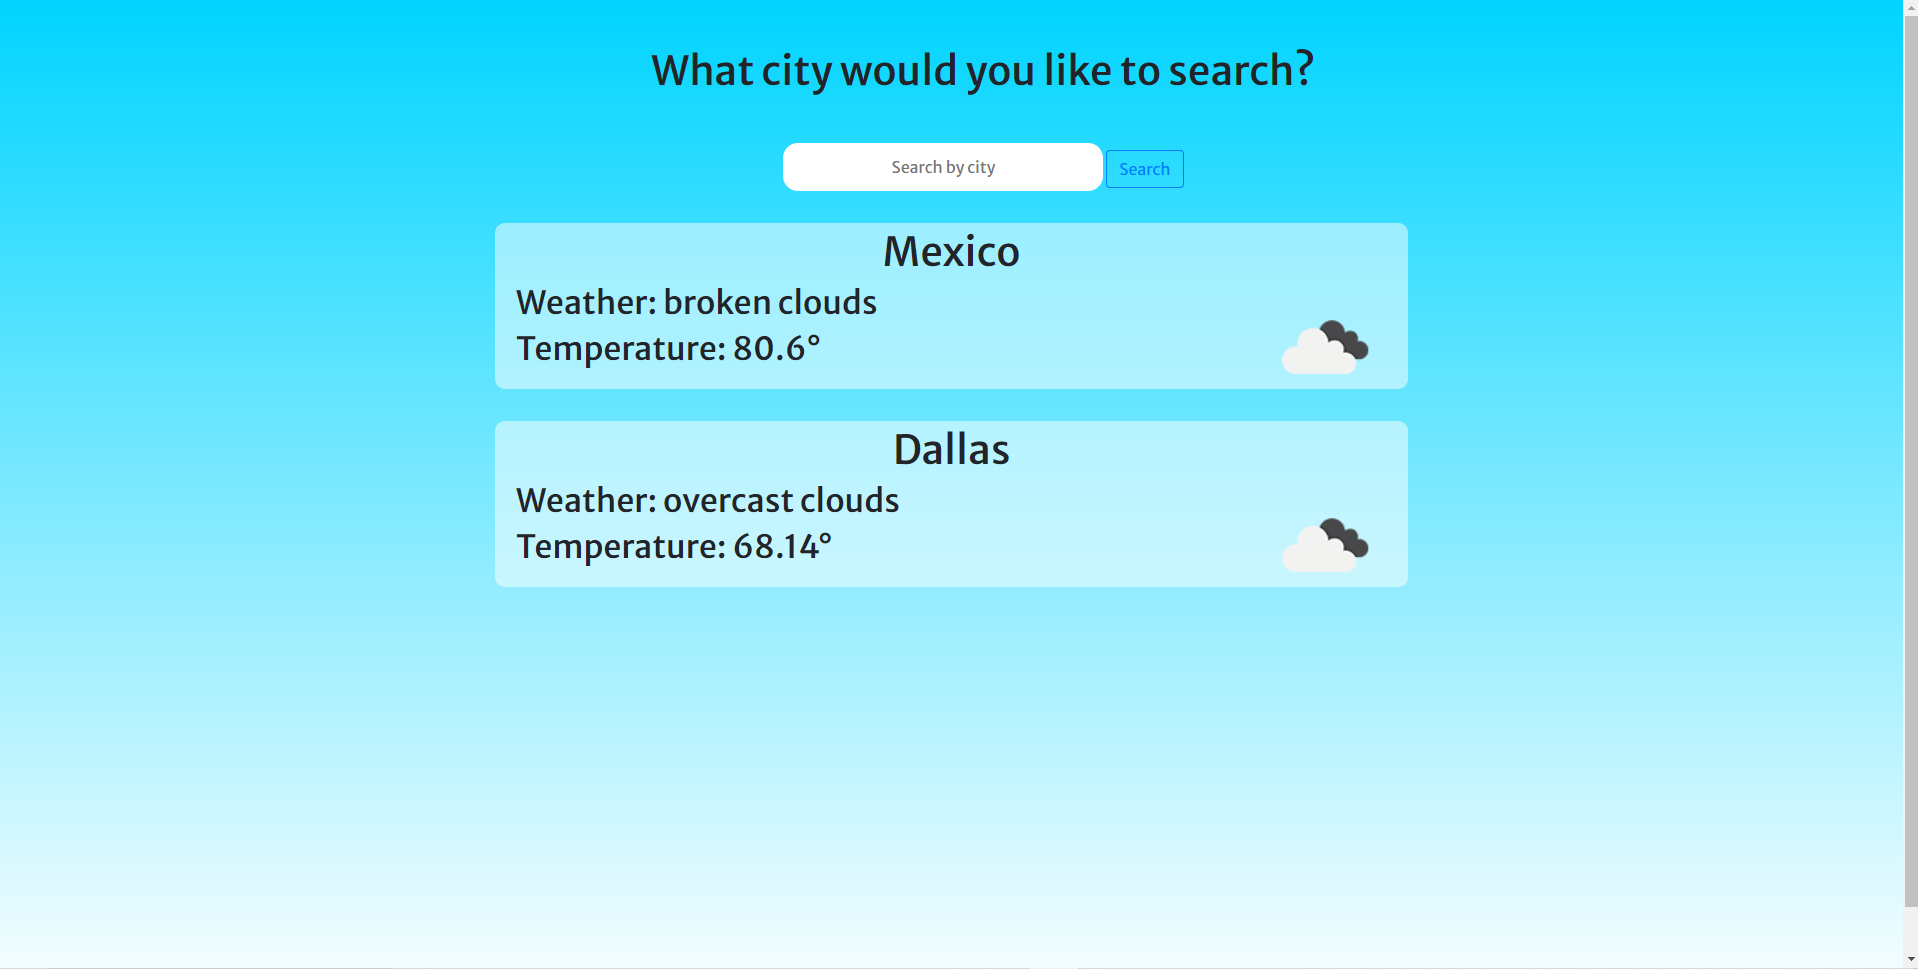
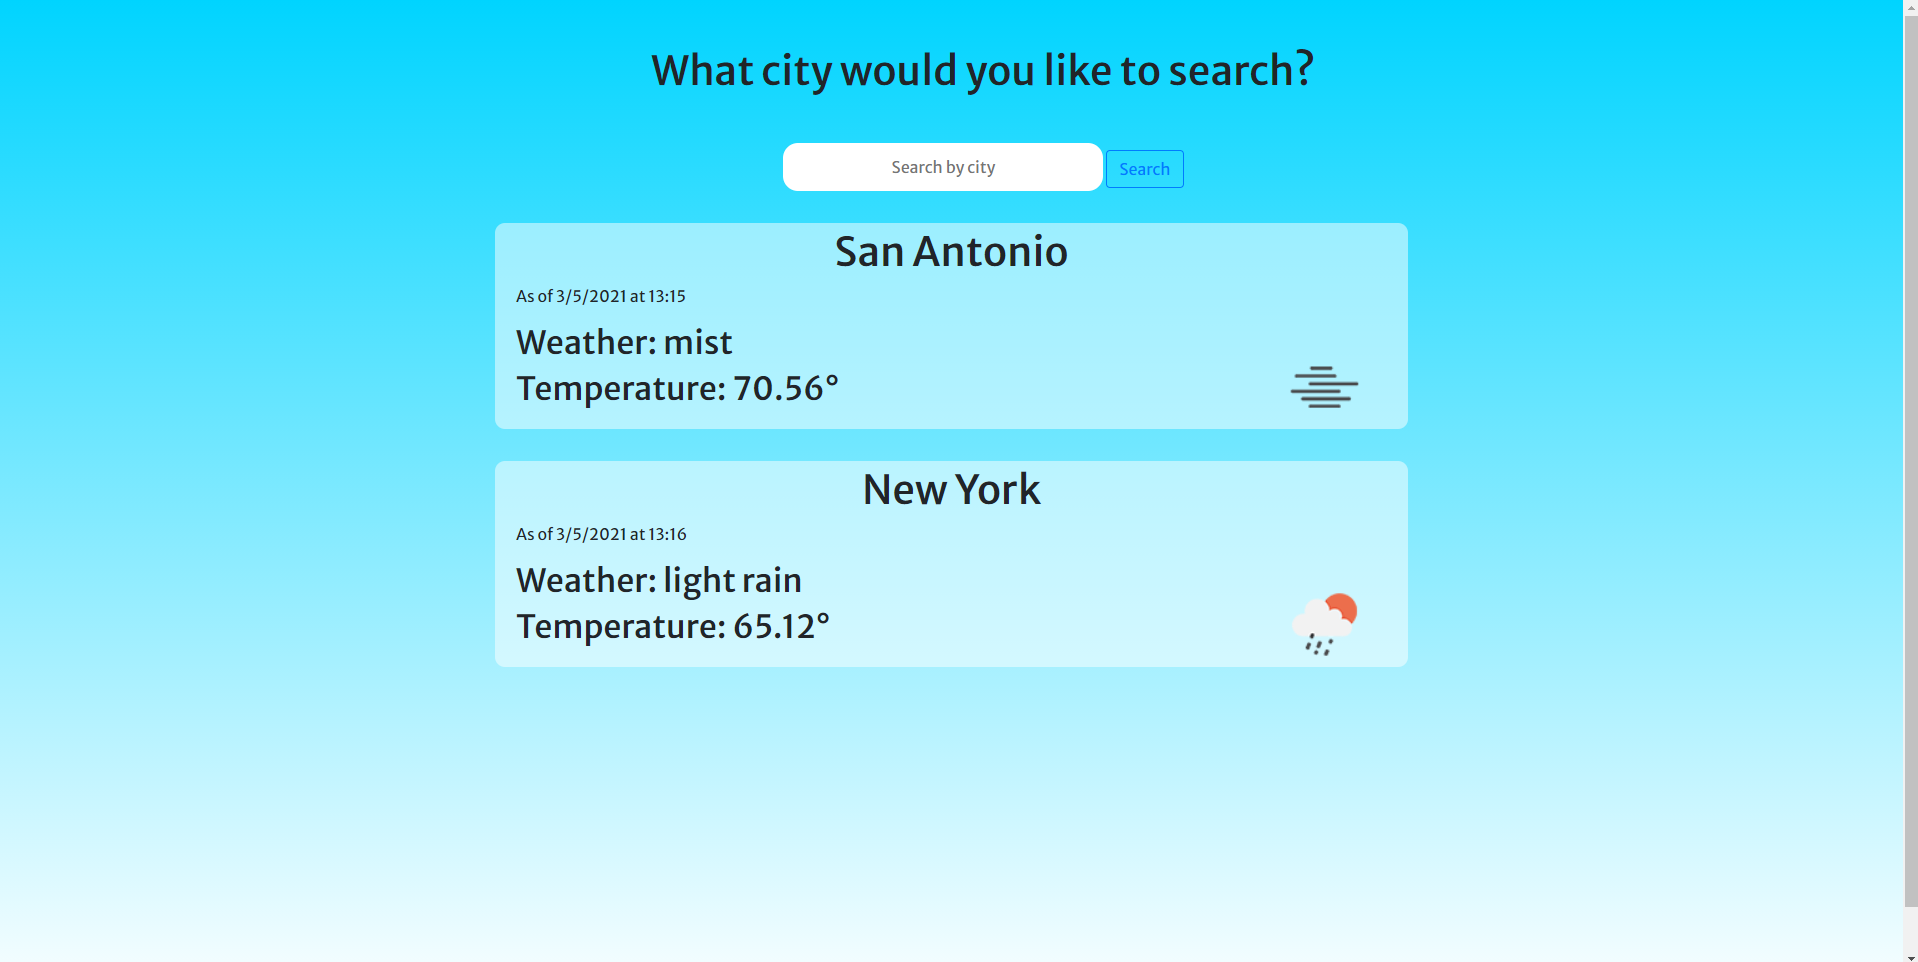
Updated Readme. Add time

diff --git a/app.js b/app.js
@@ -62,14 +62,18 @@ app.post("/", function (req, res) {
         var description = weatherData.weather[0].description;
         const iconID = weatherData.weather[0].icon;
         const icon = "https://openweathermap.org/img/wn/" + iconID + "@2x.png";
+        const date = new Date();
+        const time = `${date.getMonth()}/${date.getDay()}/${date.getFullYear()} at ${date.getHours()}:${date.getMinutes()}`;
 
         const city = {
           name: _.startCase(_.toLower(cityName)),
           weather: description,
           temp: temp + "°",
           icon: icon,
+          time: time,
         };
 
+        // Checking to see if city is already being shown
         if (isUsed(cities, city)) {
           errorMsg = "City Exists";
         } else {
@@ -77,6 +81,7 @@ app.post("/", function (req, res) {
           errorMsg = "";
         }
       } catch (err) {
+        // Checking to see if a valid city was entered or if something else went wrong
         errorMsg =
           "Something went wrong! Please make sure you entered a valid city.";
       } finally {

diff --git a/README.md b/README.md
@@ -17,16 +17,19 @@
   <li>Open your internet browser and got to "localhost:3000"</li>
 </ol>
 
-<p><em><font color="red">If you get an error when starting the server close it "CTRL + C" and run "npm i body-parser" and then re-run the server.</font></em></p>
+<p><em>If you get an error when starting the server close it "CTRL + C" and run "npm i body-parser" and then re-run the server.</em></p>
 
 <h1>You should be greeted with this screen</h1>
 <img src="/images/Screenshot 4.png">
 
 <h1>Searching</h1>
 <img src="/images/Screenshot 1.png">
-<p>You can type any city in the world into the search bar and it will display automatically in the DOM</p>
+<p>You can type any city in the world into the search bar and it will display automatically in the DOM.</p>
 
 <h1>Input Validation</h1>
 <img src="/images/Screenshot 2.png">
 <img src="/images/Screenshot 3.png">
-<p>The website will ensure you enter a valid website that is not already displayed</p>
+<p>The website will ensure you enter a valid website that is not already displayed.</p>
+
+<h1>Local Storage</h1>
+<p>Everything is being stored locally in an array on the back-end (app.js)</p>
